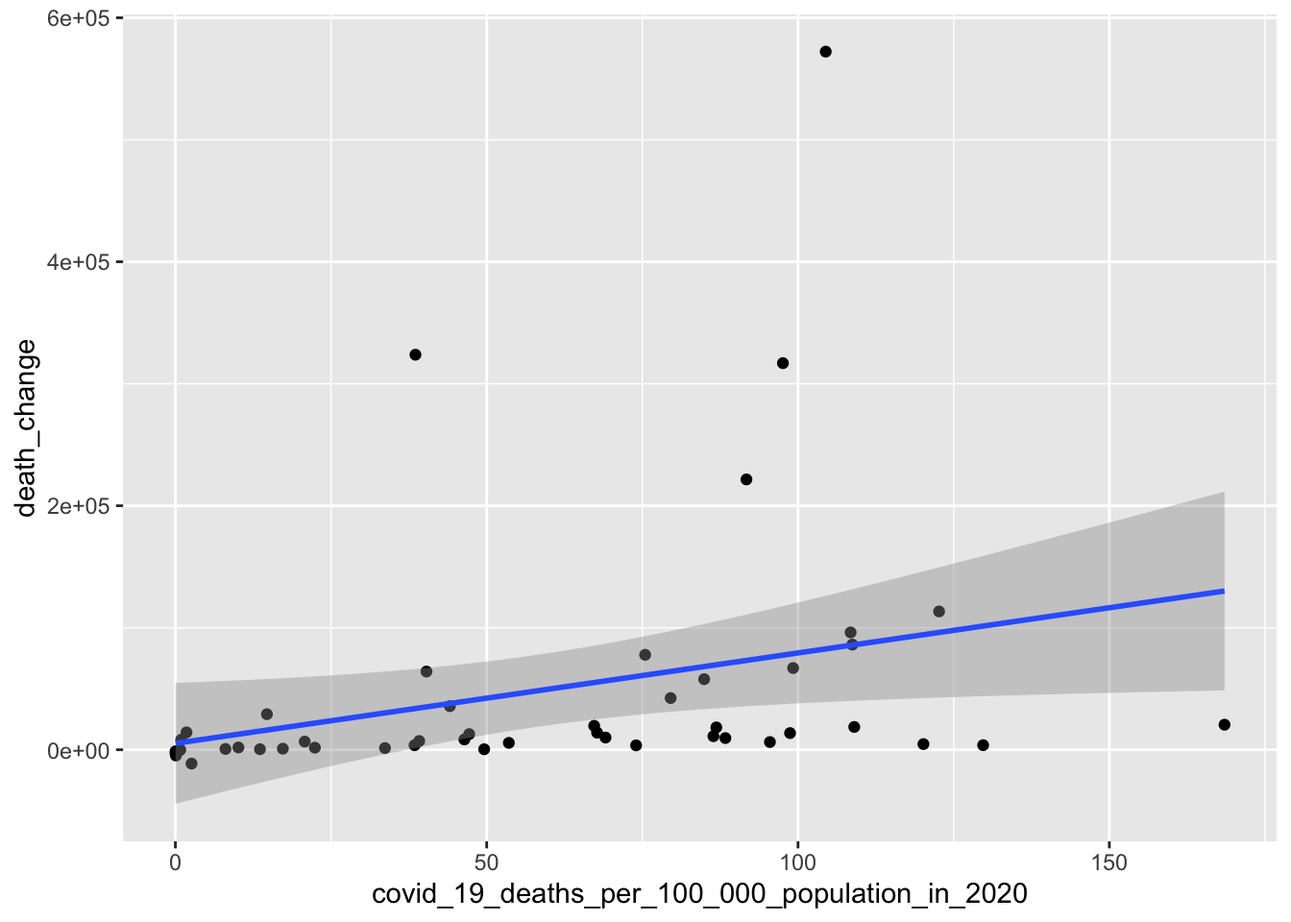
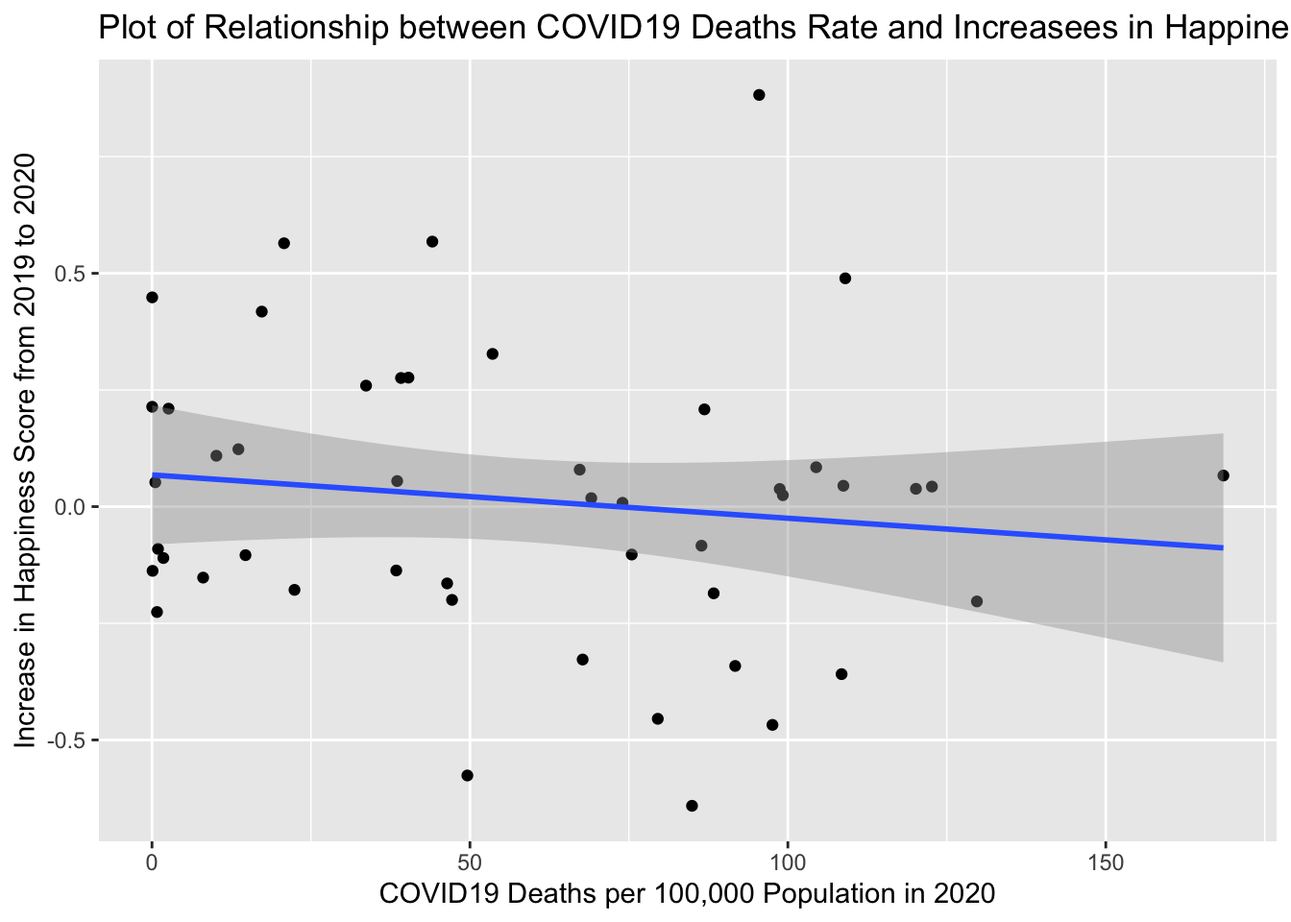
XS

diff --git a/COVID19.html b/COVID19.html
@@ -33,6 +33,7 @@
 <link href="site_libs/tocify-1.9.1/jquery.tocify.css" rel="stylesheet" />
 <script src="site_libs/tocify-1.9.1/jquery.tocify.js"></script>
 <script src="site_libs/navigation-1.1/tabsets.js"></script>
+<script src="site_libs/navigation-1.1/codefolding.js"></script>
 <link href="site_libs/highlightjs-9.12.0/default.css" rel="stylesheet" />
 <script src="site_libs/highlightjs-9.12.0/highlight.js"></script>
 <script src="site_libs/htmlwidgets-1.5.4/htmlwidgets.js"></script>
@@ -227,6 +228,9 @@ $(document).ready(function () {
 </style>
 
 <!-- code folding -->
+<style type="text/css">
+.code-folding-btn { margin-bottom: 4px; }
+</style>
 
 
 
@@ -339,6 +343,9 @@ div.tocify {
     <li>
       <a href="Happiness_factors.html">Related factors</a>
     </li>
+    <li>
+      <a href="COVID19.html">Influnce of COVID19</a>
+    </li>
   </ul>
 </li>
 <li>
@@ -376,6 +383,14 @@ div.tocify {
 </div><!--/.navbar -->
 
 <div id="header">
+
+<div class="btn-group pull-right float-right">
+<button type="button" class="btn btn-default btn-xs btn-secondary btn-sm dropdown-toggle" data-toggle="dropdown" aria-haspopup="true" aria-expanded="false"><span>Code</span> <span class="caret"></span></button>
+<ul class="dropdown-menu dropdown-menu-right" style="min-width: 50px;">
+<li><a id="rmd-show-all-code" href="#">Show All Code</a></li>
+<li><a id="rmd-hide-all-code" href="#">Hide All Code</a></li>
+</ul>
+</div>
 
 
 
@@ -419,23 +434,38 @@ happy_df = readxl::read_xls(&#39;DataPanelWHR2021C2.xls&#39;) %&gt;%
 
 happy_df %&gt;% 
   group_by(country_continent) %&gt;% 
-  summarize(n = n())</code></pre>
-<pre><code>## # A tibble: 5 × 2
-##   country_continent     n
-##   &lt;chr&gt;             &lt;int&gt;
-## 1 Africa              138
-## 2 Americas             77
-## 3 Asia                150
-## 4 Europe              151
-## 5 Oceania               8</code></pre>
-<pre class="r"><code>covid_death_rate = covid_df %&gt;% 
-  plot_ly(x = ~country_name, 
-         y = ~covid_19_deaths_per_100_000_population_in_2020,
-         type = &quot;bar&quot;, colors = &quot;viridis&quot;)
-
-covid_death_rate</code></pre>
-<div id="htmlwidget-f10524be9af0ba7060b9" style="width:672px;height:480px;" class="plotly html-widget"></div>
-<script type="application/json" data-for="htmlwidget-f10524be9af0ba7060b9">{"x":{"visdat":{"d2be24ea7835":["function () ","plotlyVisDat"]},"cur_data":"d2be24ea7835","attrs":{"d2be24ea7835":{"x":{},"y":{},"colors":"viridis","alpha_stroke":1,"sizes":[10,100],"spans":[1,20],"type":"bar"}},"layout":{"margin":{"b":40,"l":60,"t":25,"r":10},"xaxis":{"domain":[0,1],"automargin":true,"title":"country_name","type":"category","categoryorder":"array","categoryarray":["Armenia","Austria","Azerbaijan","Belgium","Brazil","Bulgaria","Chile","Colombia","Croatia","Cyprus","Czech Republic","Denmark","Ecuador","Estonia","Finland","France","Germany","Greece","Hong Kong S.A.R. of China","Hungary","Iceland","Israel","Italy","Japan","Kazakhstan","Kosovo","Kyrgyzstan","Latvia","Lithuania","Luxembourg","Malaysia","Malta","Mauritius","Mexico","Moldova","Mongolia","Netherlands","New Zealand","North Macedonia","Norway","Oman","Panama","Paraguay","Peru","Poland","Portugal","Qatar","Russia","Serbia","Singapore","Slovakia","Slovenia","South Korea","Spain","Sweden","Switzerland","Taiwan Province of China","Tajikistan","Thailand","Ukraine","United Kingdom","United States","Uzbekistan"]},"yaxis":{"domain":[0,1],"automargin":true,"title":"covid_19_deaths_per_100_000_population_in_2020"},"hovermode":"closest","showlegend":false},"source":"A","config":{"modeBarButtonsToAdd":["hoverclosest","hovercompare"],"showSendToCloud":false},"data":[{"x":["United States","United Kingdom","France","Germany","Netherlands","Belgium","Spain","Italy","Poland","Hungary","Czech Republic","Sweden","Greece","Denmark","Hong Kong S.A.R. of China","Singapore","Japan","Brazil","Mexico","Israel","Thailand","New Zealand","South Korea","Taiwan Province of China","Kazakhstan","Kyrgyzstan","Moldova","Russia","Ukraine","Armenia","Austria","Azerbaijan","Bulgaria","Chile","Colombia","Croatia","Cyprus","Ecuador","Estonia","Finland","Iceland","Latvia","Lithuania","Luxembourg","North Macedonia","Malaysia","Malta","Mauritius","Mongolia","Norway","Oman","Panama","Paraguay","Peru","Portugal","Qatar","Serbia","Slovakia","Slovenia","Switzerland","Tajikistan","Uzbekistan","Kosovo"],"y":[104.451400756836,108.449501037598,99.211799621582,40.3311004638672,67.260498046875,168.495697021484,108.731101989746,122.654197692871,75.4467010498047,98.7230987548828,108.133499145508,86.4122009277344,46.4162979125977,22.4093990325928,1.97412610054016,0.495699971914291,2.60290002822876,91.7151031494141,97.5756988525391,38.4146995544434,0.0903000012040138,0.518400013446808,1.78859996795654,0.0294000003486872,14.7044010162354,20.7688999176025,73.996696472168,38.5591011047363,44.0872001647949,95.2675018310547,69.0841979980469,26.0475006103516,109.031600952148,86.8791961669922,84.926399230957,95.4870986938477,13.5860004425049,79.5439987182617,17.2630004882812,10.125,8.49820041656494,33.6655006408691,53.5578002929688,79.0764999389648,120.141296386719,1.45519995689392,49.5992012023926,0.786300003528595,0.0305000003427267,8.04240036010742,29.3540000915527,93.2146987915039,31.7139015197754,114.279296875,67.7276992797852,8.50380039215088,47.1886978149414,39.1601028442383,129.730102539062,88.3343048095703,0.943599998950958,1.83449995517731,68.9164962768555],"type":"bar","marker":{"color":"rgba(31,119,180,1)","line":{"color":"rgba(31,119,180,1)"}},"error_y":{"color":"rgba(31,119,180,1)"},"error_x":{"color":"rgba(31,119,180,1)"},"xaxis":"x","yaxis":"y","frame":null}],"highlight":{"on":"plotly_click","persistent":false,"dynamic":false,"selectize":false,"opacityDim":0.2,"selected":{"opacity":1},"debounce":0},"shinyEvents":["plotly_hover","plotly_click","plotly_selected","plotly_relayout","plotly_brushed","plotly_brushing","plotly_clickannotation","plotly_doubleclick","plotly_deselect","plotly_afterplot","plotly_sunburstclick"],"base_url":"https://plot.ly"},"evals":[],"jsHooks":[]}</script>
+  summarize(n = n()) %&gt;% 
+  knitr::kable(col.names = c(&quot;Continent&quot;, &quot;Number of Countries in Happiness Dataset&quot;))</code></pre>
+<table>
+<thead>
+<tr class="header">
+<th align="left">Continent</th>
+<th align="right">Number of Countries in Happiness Dataset</th>
+</tr>
+</thead>
+<tbody>
+<tr class="odd">
+<td align="left">Africa</td>
+<td align="right">138</td>
+</tr>
+<tr class="even">
+<td align="left">Americas</td>
+<td align="right">77</td>
+</tr>
+<tr class="odd">
+<td align="left">Asia</td>
+<td align="right">150</td>
+</tr>
+<tr class="even">
+<td align="left">Europe</td>
+<td align="right">151</td>
+</tr>
+<tr class="odd">
+<td align="left">Oceania</td>
+<td align="right">8</td>
+</tr>
+</tbody>
+</table>
 <pre class="r"><code>happy_wider = 
   happy_df %&gt;% 
   pivot_wider(
@@ -443,99 +473,190 @@ covid_death_rate</code></pre>
     values_from = life_ladder,
     names_glue = &quot;life_ladder_{year}&quot;
   ) %&gt;% 
-  mutate(happy_change = life_ladder_2020 - life_ladder_2019) 
+  mutate(happy_change_2020 = life_ladder_2020 - life_ladder_2019,
+         happy_change_2019 = life_ladder_2019 - life_ladder_2018) %&gt;% 
+  mutate(change_in_speed = happy_change_2020 - happy_change_2019)
 
 covid_happy_trend = 
-  left_join(covid_df, happy_wider, by = &quot;country_name&quot;)
+  left_join(covid_df, happy_wider, by = &quot;country_name&quot;) %&gt;% 
+  drop_na()</code></pre>
+</div>
+<div id="covid19-distributions" class="section level2">
+<h2>COVID19 Distributions</h2>
+<pre class="r"><code>covid_death_rate = covid_happy_trend %&gt;% 
+  plot_ly(x = ~country_name, 
+         y = ~covid_19_deaths_per_100_000_population_in_2020,
+         type = &quot;bar&quot;, color = ~country_continent) %&gt;% 
+  layout(
+    title = &quot;COVID19 Deaths per 100,000 Population in 2020 in Each Country&quot;,
+    xaxis = list(title = &#39;Country Name&#39;),
+    yaxis = list(title = &#39;COVID19 Deaths per 100,000 Population&#39;))
 
-
-covid_happy_trend %&gt;% 
+covid_death_rate</code></pre>
+<div id="htmlwidget-c1064f39441f50b56943" style="width:672px;height:480px;" class="plotly html-widget"></div>
+<script type="application/json" data-for="htmlwidget-c1064f39441f50b56943">{"x":{"visdat":{"e3ed30e79928":["function () ","plotlyVisDat"]},"cur_data":"e3ed30e79928","attrs":{"e3ed30e79928":{"x":{},"y":{},"color":{},"alpha_stroke":1,"sizes":[10,100],"spans":[1,20],"type":"bar"}},"layout":{"margin":{"b":40,"l":60,"t":25,"r":10},"title":"COVID19 Deaths per 100,000 Population in 2020 in Each Country","xaxis":{"domain":[0,1],"automargin":true,"title":"Country Name","type":"category","categoryorder":"array","categoryarray":["Austria","Belgium","Brazil","Bulgaria","Chile","Colombia","Croatia","Cyprus","Denmark","Ecuador","Estonia","Finland","France","Germany","Greece","Hungary","Israel","Italy","Japan","Kazakhstan","Kyrgyzstan","Latvia","Lithuania","Malta","Mauritius","Mexico","Moldova","Mongolia","Netherlands","New Zealand","North Macedonia","Norway","Poland","Portugal","Russia","Serbia","Slovakia","Slovenia","South Korea","Spain","Sweden","Switzerland","Taiwan Province of China","Tajikistan","Thailand","Ukraine","United Kingdom","United States"]},"yaxis":{"domain":[0,1],"automargin":true,"title":"COVID19 Deaths per 100,000 Population"},"hovermode":"closest","showlegend":true},"source":"A","config":{"modeBarButtonsToAdd":["hoverclosest","hovercompare"],"showSendToCloud":false},"data":[{"x":["Mauritius"],"y":[0.786300003528595],"type":"bar","name":"Africa","marker":{"color":"rgba(102,194,165,1)","line":{"color":"rgba(102,194,165,1)"}},"textfont":{"color":"rgba(102,194,165,1)"},"error_y":{"color":"rgba(102,194,165,1)"},"error_x":{"color":"rgba(102,194,165,1)"},"xaxis":"x","yaxis":"y","frame":null},{"x":["United States","Brazil","Mexico","Chile","Colombia","Ecuador"],"y":[104.451400756836,91.7151031494141,97.5756988525391,86.8791961669922,84.926399230957,79.5439987182617],"type":"bar","name":"Americas","marker":{"color":"rgba(252,141,98,1)","line":{"color":"rgba(252,141,98,1)"}},"textfont":{"color":"rgba(252,141,98,1)"},"error_y":{"color":"rgba(252,141,98,1)"},"error_x":{"color":"rgba(252,141,98,1)"},"xaxis":"x","yaxis":"y","frame":null},{"x":["Japan","Israel","Thailand","South Korea","Taiwan Province of China","Kazakhstan","Kyrgyzstan","Cyprus","Mongolia","Tajikistan"],"y":[2.60290002822876,38.4146995544434,0.0903000012040138,1.78859996795654,0.0294000003486872,14.7044010162354,20.7688999176025,13.5860004425049,0.0305000003427267,0.943599998950958],"type":"bar","name":"Asia","marker":{"color":"rgba(141,160,203,1)","line":{"color":"rgba(141,160,203,1)"}},"textfont":{"color":"rgba(141,160,203,1)"},"error_y":{"color":"rgba(141,160,203,1)"},"error_x":{"color":"rgba(141,160,203,1)"},"xaxis":"x","yaxis":"y","frame":null},{"x":["United Kingdom","France","Germany","Netherlands","Belgium","Spain","Italy","Poland","Hungary","Sweden","Greece","Denmark","Moldova","Russia","Ukraine","Austria","Bulgaria","Croatia","Estonia","Finland","Latvia","Lithuania","North Macedonia","Malta","Norway","Portugal","Serbia","Slovakia","Slovenia","Switzerland"],"y":[108.449501037598,99.211799621582,40.3311004638672,67.260498046875,168.495697021484,108.731101989746,122.654197692871,75.4467010498047,98.7230987548828,86.4122009277344,46.4162979125977,22.4093990325928,73.996696472168,38.5591011047363,44.0872001647949,69.0841979980469,109.031600952148,95.4870986938477,17.2630004882812,10.125,33.6655006408691,53.5578002929688,120.141296386719,49.5992012023926,8.04240036010742,67.7276992797852,47.1886978149414,39.1601028442383,129.730102539062,88.3343048095703],"type":"bar","name":"Europe","marker":{"color":"rgba(231,138,195,1)","line":{"color":"rgba(231,138,195,1)"}},"textfont":{"color":"rgba(231,138,195,1)"},"error_y":{"color":"rgba(231,138,195,1)"},"error_x":{"color":"rgba(231,138,195,1)"},"xaxis":"x","yaxis":"y","frame":null},{"x":["New Zealand"],"y":[0.518400013446808],"type":"bar","name":"Oceania","marker":{"color":"rgba(166,216,84,1)","line":{"color":"rgba(166,216,84,1)"}},"textfont":{"color":"rgba(166,216,84,1)"},"error_y":{"color":"rgba(166,216,84,1)"},"error_x":{"color":"rgba(166,216,84,1)"},"xaxis":"x","yaxis":"y","frame":null}],"highlight":{"on":"plotly_click","persistent":false,"dynamic":false,"selectize":false,"opacityDim":0.2,"selected":{"opacity":1},"debounce":0},"shinyEvents":["plotly_hover","plotly_click","plotly_selected","plotly_relayout","plotly_brushed","plotly_brushing","plotly_clickannotation","plotly_doubleclick","plotly_deselect","plotly_afterplot","plotly_sunburstclick"],"base_url":"https://plot.ly"},"evals":[],"jsHooks":[]}</script>
+<pre class="r"><code>covid_happy_trend %&gt;% 
   group_by(country_continent) %&gt;% 
-  summarise(n = n())</code></pre>
-<pre><code>## # A tibble: 6 × 2
-##   country_continent     n
-##   &lt;chr&gt;             &lt;int&gt;
-## 1 Africa                1
-## 2 Americas              9
-## 3 Asia                 16
-## 4 Europe               33
-## 5 Oceania               1
-## 6 &lt;NA&gt;                  3</code></pre>
+  summarize(n = n()) %&gt;% 
+  knitr::kable(col.names = c(&quot;Continent&quot;, &quot;Number of Countries in both Happiness and COVID Dataset&quot;))</code></pre>
+<table>
+<thead>
+<tr class="header">
+<th align="left">Continent</th>
+<th align="right">Number of Countries in both Happiness and COVID Dataset</th>
+</tr>
+</thead>
+<tbody>
+<tr class="odd">
+<td align="left">Africa</td>
+<td align="right">1</td>
+</tr>
+<tr class="even">
+<td align="left">Americas</td>
+<td align="right">6</td>
+</tr>
+<tr class="odd">
+<td align="left">Asia</td>
+<td align="right">10</td>
+</tr>
+<tr class="even">
+<td align="left">Europe</td>
+<td align="right">30</td>
+</tr>
+<tr class="odd">
+<td align="left">Oceania</td>
+<td align="right">1</td>
+</tr>
+</tbody>
+</table>
+</div>
+<div id="change-in-happiness-score-related-to-covid19" class="section level2">
+<h2>Change in Happiness Score Related to COVID19</h2>
 <pre class="r"><code>covid_happy_trend %&gt;% 
   ggplot(aes(x = covid_19_deaths_per_100_000_population_in_2020, 
-             y = happy_change)) +
+             y = happy_change_2020)) +
   geom_point() +
-  geom_smooth(method = &quot;lm&quot;)</code></pre>
+  geom_smooth(method = &quot;lm&quot;) + 
+  ggtitle(&quot;Plot of Relationship between COVID19 Deaths Rate and Increasees in Happiness Scores with Linear Regression Model&quot;) + 
+  xlab(&quot;COVID19 Deaths per 100,000 Population in 2020&quot;) +
+  ylab(&quot;Increase in Happiness Score from 2019 to 2020&quot;)</code></pre>
 <pre><code>## `geom_smooth()` using formula &#39;y ~ x&#39;</code></pre>
-<pre><code>## Warning: Removed 13 rows containing non-finite values (stat_smooth).</code></pre>
-<pre><code>## Warning: Removed 13 rows containing missing values (geom_point).</code></pre>
-<p><img src="COVID19_files/figure-html/unnamed-chunk-4-1.png" width="672" /></p>
+<p><img src="COVID19_files/figure-html/unnamed-chunk-5-1.png" width="672" /></p>
 <pre class="r"><code>covid_happy_trend_fc = 
   covid_happy_trend %&gt;% 
   mutate(country_continent = factor(country_continent))
 
-model = lm(happy_change ~ covid_19_deaths_per_100_000_population_in_2020, data = covid_happy_trend_fc)
+model = lm(happy_change_2020 ~ covid_19_deaths_per_100_000_population_in_2020, data = covid_happy_trend_fc)
 summary(model)</code></pre>
 <pre><code>## 
 ## Call:
-## lm(formula = happy_change ~ covid_19_deaths_per_100_000_population_in_2020, 
+## lm(formula = happy_change_2020 ~ covid_19_deaths_per_100_000_population_in_2020, 
 ##     data = covid_happy_trend_fc)
 ## 
 ## Residuals:
 ##      Min       1Q   Median       3Q      Max 
-## -0.62869 -0.18129  0.01656  0.15900  0.90180 
+## -0.63023 -0.19340  0.01847  0.14833  0.90294 
 ## 
 ## Coefficients:
 ##                                                  Estimate Std. Error t value
-## (Intercept)                                     0.0448135  0.0704650   0.636
-## covid_19_deaths_per_100_000_population_in_2020 -0.0006741  0.0009967  -0.676
+## (Intercept)                                     0.0679156  0.0741398   0.916
+## covid_19_deaths_per_100_000_population_in_2020 -0.0009279  0.0010276  -0.903
 ##                                                Pr(&gt;|t|)
-## (Intercept)                                       0.528
-## covid_19_deaths_per_100_000_population_in_2020    0.502
+## (Intercept)                                       0.364
+## covid_19_deaths_per_100_000_population_in_2020    0.371
 ## 
-## Residual standard error: 0.3061 on 48 degrees of freedom
-##   (13 observations deleted due to missingness)
-## Multiple R-squared:  0.009439,   Adjusted R-squared:  -0.0112 
-## F-statistic: 0.4574 on 1 and 48 DF,  p-value: 0.5021</code></pre>
-<pre class="r"><code>model = lm(happy_change ~ covid_19_deaths_per_100_000_population_in_2020 + country_continent, data = covid_happy_trend_fc)
+## Residual standard error: 0.3066 on 46 degrees of freedom
+## Multiple R-squared:  0.01742,    Adjusted R-squared:  -0.003944 
+## F-statistic: 0.8153 on 1 and 46 DF,  p-value: 0.3712</code></pre>
+<p>We expected that COVID19 will decrease the happiness score. However, even though the regression has a negative slope, there is no significant relationship between covid-related death and happiness score. This may result from the lack of data. In our happiness dataframe, there are 166 countries. However, there are only 60 countries have both COVID data and happiness score. This mean only 36% of the total countries we are interested in have COVID data. Among the countries have data related to COVID, 33 countries are from Europe, which covers 55% of the dataframe. In details we have 33 out of 151 European countries (21.85%), 16 out of 150 Asian countries (10.67%), 9 out of 77 American countries (11.69%), 1 out of 138 African countries (0.72%) and 1 from 9 Oceanian countries (11.11%). Number of European countries is un-proportionally high compared to the country numbers in other continent. On the other hand, the number of African countries is the lowest. The disproportion could bring more developed countries than developing countries to our dataset because Europe is concentrated with developed countries while Africa is concentrated with developing countries. Therefore, the dataset we have may significant biased because developed countries may be more stable to epidemic impact. So the data we have right now cannot give accurate relationship result.</p>
+<pre class="r"><code>model = lm(happy_change_2020 ~ covid_19_deaths_per_100_000_population_in_2020 + country_continent, data = covid_happy_trend_fc)
 summary(model)</code></pre>
 <pre><code>## 
 ## Call:
-## lm(formula = happy_change ~ covid_19_deaths_per_100_000_population_in_2020 + 
+## lm(formula = happy_change_2020 ~ covid_19_deaths_per_100_000_population_in_2020 + 
 ##     country_continent, data = covid_happy_trend_fc)
 ## 
 ## Residuals:
 ##      Min       1Q   Median       3Q      Max 
-## -0.62868 -0.19330 -0.01149  0.15563  0.83712 
+## -0.63111 -0.21188 -0.00395  0.13530  0.83869 
 ## 
 ## Coefficients:
 ##                                                  Estimate Std. Error t value
-## (Intercept)                                    -0.2257382  0.2994464  -0.754
-## covid_19_deaths_per_100_000_population_in_2020 -0.0001611  0.0013289  -0.121
-## country_continentAmericas                      -0.0283199  0.3448709  -0.082
-## country_continentAsia                           0.2831771  0.3129333   0.905
-## country_continentEurope                         0.2862521  0.3175619   0.901
-## country_continentOceania                        0.2780292  0.4234787   0.657
+## (Intercept)                                    -0.2256695  0.2987959  -0.755
+## covid_19_deaths_per_100_000_population_in_2020 -0.0002485  0.0013796  -0.180
+## country_continentAmericas                      -0.0204513  0.3458256  -0.059
+## country_continentAsia                           0.3260302  0.3135975   1.040
+## country_continentEurope                         0.2929524  0.3189358   0.919
+## country_continentOceania                        0.2780058  0.4225585   0.658
 ##                                                Pr(&gt;|t|)
-## (Intercept)                                       0.455
-## covid_19_deaths_per_100_000_population_in_2020    0.904
-## country_continentAmericas                         0.935
-## country_continentAsia                             0.370
-## country_continentEurope                           0.372
-## country_continentOceania                          0.515
+## (Intercept)                                       0.454
+## covid_19_deaths_per_100_000_population_in_2020    0.858
+## country_continentAmericas                         0.953
+## country_continentAsia                             0.304
+## country_continentEurope                           0.364
+## country_continentOceania                          0.514
 ## 
-## Residual standard error: 0.2994 on 44 degrees of freedom
-##   (13 observations deleted due to missingness)
-## Multiple R-squared:  0.1312, Adjusted R-squared:  0.03245 
-## F-statistic: 1.329 on 5 and 44 DF,  p-value: 0.2698</code></pre>
-<p>We expected that COVID19 will decrease the happiness score. However, there is no significant relationship between covid-related death and happiness score. This may result from the lack of data. In our happiness dataframe, there are 166 countries. However, in the COVID dataframe, there are only 63 countries have death data from year 2017 to 2020. This mean only 38% of the total countries we are interested in have COVID data. Among the countries have data related to COVID, 33 countries are from Europe, which covers more than 50% of the dataframe. In details we have 33 out of 151 European countries (21.85%), 16 out of 150 Asian countries (10.67%), 9 out of 77 American countries (11.69%), 1 out of 138 African countries (0.72%) and 1 from 9 Oceanian countries (11.11%). Number of European countries is un-proportionally high compared to the country numbers in other continent. On the other hand, the number of African countries is the lowest. The disproportion could bring more developed countries than developing countries to our dataset because Europe is concentrated with developed countries while Africa is concentrated with developing countries. Therefore, the dataset we have may significant biased because developed countries may be more stable to epedemic impact. So the data we have right now cannot give accurate relationship result.</p>
+## Residual standard error: 0.2988 on 42 degrees of freedom
+## Multiple R-squared:  0.1477, Adjusted R-squared:  0.04627 
+## F-statistic: 1.456 on 5 and 42 DF,  p-value: 0.2246</code></pre>
+<p>After adding the continent variables, there is still no significant relationship. However, from the limit information, we can see that Americas are more likely to be effected by COVID19 because of the negatively relationship.</p>
+</div>
+<div id="change-in-happiness-score-increase-speed-related-to-covid19" class="section level2">
+<h2>Change in Happiness Score Increase Speed Related to COVID19</h2>
+<pre class="r"><code>covid_happy_trend %&gt;% 
+  plot_ly(x = ~country_name, 
+         y = ~change_in_speed,
+         type = &quot;bar&quot;, color = ~country_continent) %&gt;% 
+  layout(
+    title = &quot;Change in the Happiness Score Rise Rate&quot;,
+    xaxis = list(title = &#39;Country Name&#39;),
+    yaxis = list(title = &#39;Difference between Increase of Happiness Score \nin 2020 and Increase of Happiness Score in 2019&#39;))</code></pre>
+<div id="htmlwidget-a8ac8690128f5e72370b" style="width:672px;height:480px;" class="plotly html-widget"></div>
+<script type="application/json" data-for="htmlwidget-a8ac8690128f5e72370b">{"x":{"visdat":{"e3ed6f00ff32":["function () ","plotlyVisDat"]},"cur_data":"e3ed6f00ff32","attrs":{"e3ed6f00ff32":{"x":{},"y":{},"color":{},"alpha_stroke":1,"sizes":[10,100],"spans":[1,20],"type":"bar"}},"layout":{"margin":{"b":40,"l":60,"t":25,"r":10},"title":"Change in the Happiness Score Rise Rate","xaxis":{"domain":[0,1],"automargin":true,"title":"Country Name","type":"category","categoryorder":"array","categoryarray":["Austria","Belgium","Brazil","Bulgaria","Chile","Colombia","Croatia","Cyprus","Denmark","Ecuador","Estonia","Finland","France","Germany","Greece","Hungary","Israel","Italy","Japan","Kazakhstan","Kyrgyzstan","Latvia","Lithuania","Malta","Mauritius","Mexico","Moldova","Mongolia","Netherlands","New Zealand","North Macedonia","Norway","Poland","Portugal","Russia","Serbia","Slovakia","Slovenia","South Korea","Spain","Sweden","Switzerland","Taiwan Province of China","Tajikistan","Thailand","Ukraine","United Kingdom","United States"]},"yaxis":{"domain":[0,1],"automargin":true,"title":"Difference between Increase of Happiness Score <br />in 2020 and Increase of Happiness Score in 2019"},"hovermode":"closest","showlegend":true},"source":"A","config":{"modeBarButtonsToAdd":["hoverclosest","hovercompare"],"showSendToCloud":false},"data":[{"x":["Mauritius"],"y":[-0.585289478302002],"type":"bar","name":"Africa","marker":{"color":"rgba(102,194,165,1)","line":{"color":"rgba(102,194,165,1)"}},"textfont":{"color":"rgba(102,194,165,1)"},"error_y":{"color":"rgba(102,194,165,1)"},"error_x":{"color":"rgba(102,194,165,1)"},"xaxis":"x","yaxis":"y","frame":null},{"x":["United States","Brazil","Mexico","Chile","Colombia","Ecuador"],"y":[0.0233702659606934,-0.601658344268799,-0.350090980529785,0.702363014221191,-1.0079083442688,-0.135790348052979],"type":"bar","name":"Americas","marker":{"color":"rgba(252,141,98,1)","line":{"color":"rgba(252,141,98,1)"}},"textfont":{"color":"rgba(252,141,98,1)"},"error_y":{"color":"rgba(252,141,98,1)"},"error_x":{"color":"rgba(252,141,98,1)"},"xaxis":"x","yaxis":"y","frame":null},{"x":["Japan","Israel","Thailand","South Korea","Taiwan Province of China","Kazakhstan","Kyrgyzstan","Cyprus","Mongolia","Tajikistan"],"y":[0.0954604148864746,-0.541452884674072,-0.148196697235107,-0.172706604003906,0.143892765045166,-0.368631362915039,0.176527976989746,0.262588024139404,0.35017728805542,-0.0571632385253906],"type":"bar","name":"Asia","marker":{"color":"rgba(141,160,203,1)","line":{"color":"rgba(141,160,203,1)"}},"textfont":{"color":"rgba(141,160,203,1)"},"error_y":{"color":"rgba(141,160,203,1)"},"error_x":{"color":"rgba(141,160,203,1)"},"xaxis":"x","yaxis":"y","frame":null},{"x":["United Kingdom","France","Germany","Netherlands","Belgium","Spain","Italy","Poland","Hungary","Sweden","Greece","Denmark","Moldova","Russia","Ukraine","Austria","Bulgaria","Croatia","Estonia","Finland","Latvia","Lithuania","North Macedonia","Malta","Norway","Portugal","Serbia","Slovakia","Slovenia","Switzerland"],"y":[-0.282680034637451,0.000726699829101562,0.359317302703857,0.117007732391357,0.186656475067139,0.100647449493408,0.114048957824707,-0.233247756958008,-0.0266990661621094,-0.107052326202393,-0.707409858703613,-0.222589492797852,-0.112995147705078,0.127741813659668,0.528060436248779,0.21876859664917,0.479660511016846,0.792775630950928,0.474583625793457,0.186761379241943,0.19065523147583,0.572062015533447,0.262528419494629,-0.399421215057373,-0.149984836578369,-0.503331661224365,-0.504775047302246,0.267351627349854,-0.619051933288574,-0.371419906616211],"type":"bar","name":"Europe","marker":{"color":"rgba(231,138,195,1)","line":{"color":"rgba(231,138,195,1)"}},"textfont":{"color":"rgba(231,138,195,1)"},"error_y":{"color":"rgba(231,138,195,1)"},"error_x":{"color":"rgba(231,138,195,1)"},"xaxis":"x","yaxis":"y","frame":null},{"x":["New Zealand"],"y":[0.217319011688232],"type":"bar","name":"Oceania","marker":{"color":"rgba(166,216,84,1)","line":{"color":"rgba(166,216,84,1)"}},"textfont":{"color":"rgba(166,216,84,1)"},"error_y":{"color":"rgba(166,216,84,1)"},"error_x":{"color":"rgba(166,216,84,1)"},"xaxis":"x","yaxis":"y","frame":null}],"highlight":{"on":"plotly_click","persistent":false,"dynamic":false,"selectize":false,"opacityDim":0.2,"selected":{"opacity":1},"debounce":0},"shinyEvents":["plotly_hover","plotly_click","plotly_selected","plotly_relayout","plotly_brushed","plotly_brushing","plotly_clickannotation","plotly_doubleclick","plotly_deselect","plotly_afterplot","plotly_sunburstclick"],"base_url":"https://plot.ly"},"evals":[],"jsHooks":[]}</script>
+<pre class="r"><code>model = lm(change_in_speed ~ covid_19_deaths_per_100_000_population_in_2020 + country_continent, data = covid_happy_trend_fc)
+summary(model)</code></pre>
+<pre><code>## 
+## Call:
+## lm(formula = change_in_speed ~ covid_19_deaths_per_100_000_population_in_2020 + 
+##     country_continent, data = covid_happy_trend_fc)
+## 
+## Residuals:
+##      Min       1Q   Median       3Q      Max 
+## -0.78294 -0.26032  0.04238  0.21856  0.92842 
+## 
+## Coefficients:
+##                                                  Estimate Std. Error t value
+## (Intercept)                                    -0.5848488  0.3929198  -1.488
+## covid_19_deaths_per_100_000_population_in_2020 -0.0005605  0.0018142  -0.309
+## country_continentAmericas                       0.4074841  0.4547644   0.896
+## country_continentAsia                           0.5641087  0.4123841   1.368
+## country_continentEurope                         0.6494420  0.4194040   1.548
+## country_continentOceania                        0.8024583  0.5556691   1.444
+##                                                Pr(&gt;|t|)
+## (Intercept)                                       0.144
+## covid_19_deaths_per_100_000_population_in_2020    0.759
+## country_continentAmericas                         0.375
+## country_continentAsia                             0.179
+## country_continentEurope                           0.129
+## country_continentOceania                          0.156
+## 
+## Residual standard error: 0.3929 on 42 degrees of freedom
+## Multiple R-squared:  0.09858,    Adjusted R-squared:  -0.008727 
+## F-statistic: 0.9187 on 5 and 42 DF,  p-value: 0.4784</code></pre>
+<p>From the fitted model, we see that European and Oceania slopes of change in happiness speed are high. This means that in European and Oceania countries, the happiness scores are increasing quicker than other countries. This may help to explain why the COVID data concentrated in Europe countries are not representative: since European and Oceania countries’ happiness scores are increasing at a high rate, even if COVID19 has negative effect on the happiness score, it does not be reflected as a decrease in happiness score.</p>
+</div>
+<div id="change-in-death-related-to-covid19" class="section level2">
+<h2>Change in Death Related to COVID19</h2>
 <pre class="r"><code>covid_happy_trend %&gt;% 
   ggplot(aes(x = covid_19_deaths_per_100_000_population_in_2020, 
              y = death_change)) +
   geom_point() +
-  geom_smooth(method = &quot;lm&quot;)</code></pre>
+  geom_smooth(method = &quot;lm&quot;) +
+  ggtitle(&quot;Plot of Relationship between COVID19 Deaths Rate and Total Death in 2020&quot;) + 
+  xlab(&quot;COVID19 Deaths per 100,000 Population in 2020&quot;) +
+  ylab(&quot;Total Death in 2020&quot;)</code></pre>
 <pre><code>## `geom_smooth()` using formula &#39;y ~ x&#39;</code></pre>
-<p><img src="COVID19_files/figure-html/unnamed-chunk-7-1.png" width="672" /></p>
+<p><img src="COVID19_files/figure-html/unnamed-chunk-10-1.png" width="672" /></p>
 <pre class="r"><code>model = lm(death_change ~ covid_19_deaths_per_100_000_population_in_2020, data = covid_happy_trend_fc)
 summary(model)</code></pre>
 <pre><code>## 
@@ -544,23 +665,23 @@ summary(model)</code></pre>
 ##     data = covid_happy_trend_fc)
 ## 
 ## Residuals:
-##    Min     1Q Median     3Q    Max 
-## -95452 -37457 -11511  -1554 499294 
+##     Min      1Q  Median      3Q     Max 
+## -109594  -41445  -16015   -1543  489605 
 ## 
 ## Coefficients:
 ##                                                Estimate Std. Error t value
-## (Intercept)                                      2804.7    18344.1   0.153
-## covid_19_deaths_per_100_000_population_in_2020    671.6      263.2   2.552
+## (Intercept)                                      5228.7    24608.7   0.212
+## covid_19_deaths_per_100_000_population_in_2020    741.2      341.1   2.173
 ##                                                Pr(&gt;|t|)  
-## (Intercept)                                      0.8790  
-## covid_19_deaths_per_100_000_population_in_2020   0.0132 *
+## (Intercept)                                       0.833  
+## covid_19_deaths_per_100_000_population_in_2020    0.035 *
 ## ---
 ## Signif. codes:  0 &#39;***&#39; 0.001 &#39;**&#39; 0.01 &#39;*&#39; 0.05 &#39;.&#39; 0.1 &#39; &#39; 1
 ## 
-## Residual standard error: 90180 on 61 degrees of freedom
-## Multiple R-squared:  0.09646,    Adjusted R-squared:  0.08165 
-## F-statistic: 6.512 on 1 and 61 DF,  p-value: 0.01324</code></pre>
-<p>Covid-related deaths contribute to the total death.</p>
+## Residual standard error: 101800 on 46 degrees of freedom
+## Multiple R-squared:  0.09309,    Adjusted R-squared:  0.07337 
+## F-statistic: 4.721 on 1 and 46 DF,  p-value: 0.03497</code></pre>
+<p>Covid-related deaths contribute to the total death as the slope 741.2 is positive. Based on that information, we also want to consider survivorship bias in the data. Since our data about happiness score is based on survey, people who were infected by COVID19 may had no access to the survey because they were hosptialized or dead. Therefore, the data we have may not have ability to reflect COVID19’s influence. This may explain why some European countries have high death rate related to COVID19 but still have positive changes in happiness scores.</p>
 </div>
 
 
@@ -598,6 +719,11 @@ $(document).ready(function () {
 </script>
 
 <!-- code folding -->
+<script>
+$(document).ready(function () {
+  window.initializeCodeFolding("hide" === "show");
+});
+</script>
 
 <script>
 $(document).ready(function ()  {
